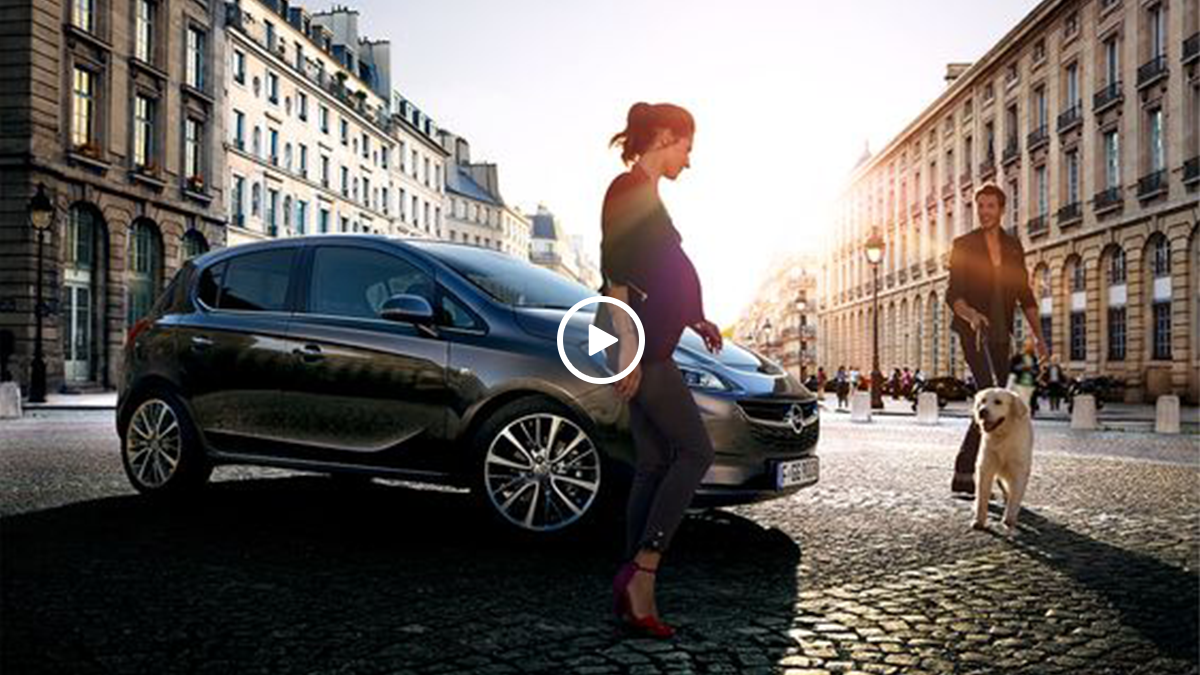
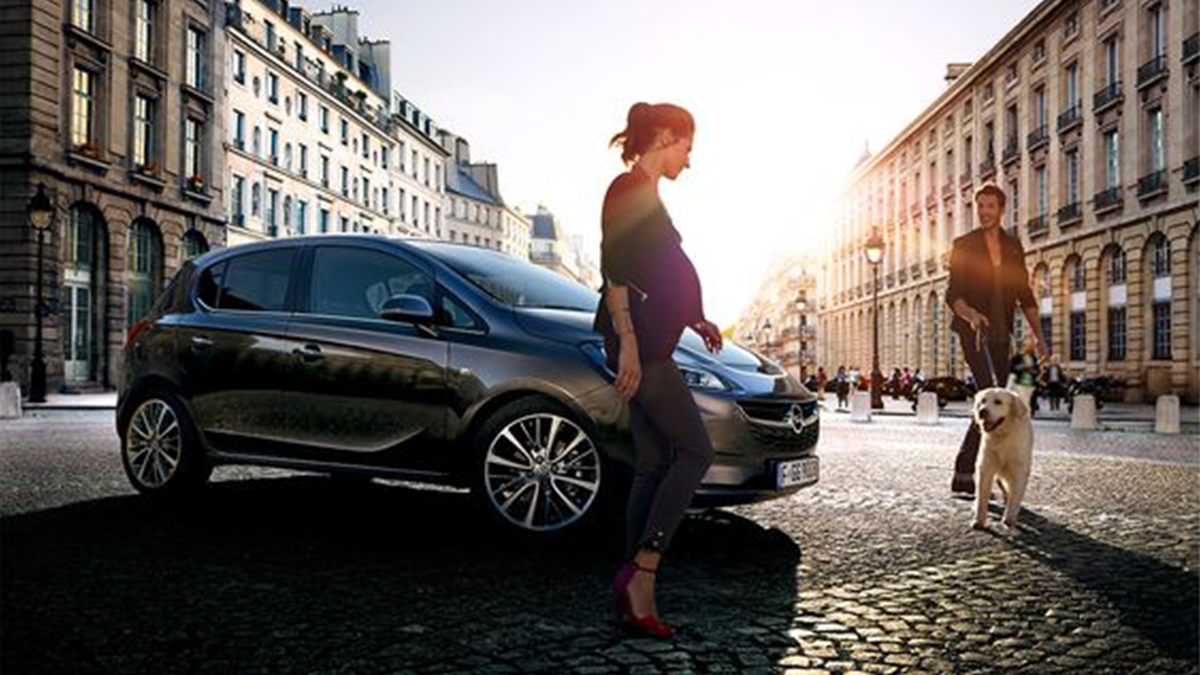
footer

Changed region(s): [[0.4625, 0.4356, 0.555, 0.5911]]

diff --git a/src/e-190625-venucia/desktop/assets/styles/index.scss b/src/e-190625-venucia/desktop/assets/styles/index.scss
@@ -88,11 +88,26 @@
   z-index: 1;
 
   .et-video {
+    position: relative;
     width: 100%;
     height: 100vh;
     background-image: url(../images/video.png);
     background-size: cover;
     background-repeat: no-repeat;
+
+    .et-icon.et-icon-play {
+      position: absolute;
+      top: 50%;
+      left: 50%;
+      margin-top: -44px;
+      margin-left: -44px;
+      cursor: pointer;
+      @include image(88px, 88px, '../images/icon-play.png');
+
+      &:hover {
+        transform: scale(1.1);
+      }
+    }
   }
 
   .et-main {
@@ -996,8 +1011,129 @@
   }
 
   .et-footer {
+    width: 1200px;
     margin: auto;
-    @include image(1200px, 417px, '../images/footer.png');
+
+    .et-footer__top {
+      display: flex;
+      padding: 50px 100px;
+      padding-right: 0;
+      color: $blockColor;
+      background-color: $navColor;
+
+      .et-footer__menu {
+        display: flex;
+        justify-content: space-around;
+        width: 580px;
+
+        .et-footer__menu-item {
+          .et-footer__label {
+            margin-bottom: 20px;
+            font-size: 16px;
+            font-weight: 500;
+          }
+
+          .et-footer__list {
+            .et-footer__list-item {
+              margin-bottom: 10px;
+              font-size: 16px;
+              font-weight: 300;
+              user-select: none;
+              cursor: pointer;
+            }
+          }
+        }
+      }
+
+      .et-footer__address {
+        margin-left: 250px;
+        
+        h4 {
+          margin-bottom: 20px;
+          font-size: 16px;
+          font-weight: 300;
+        }
+
+        p {
+          position: relative;
+          margin-bottom: 20px;
+          font-size: 24px;
+          font-weight: 500;
+
+          .et-icon {
+            position: absolute;
+            display: block;
+            left: -35px;
+            top: 1px;
+
+            &.et-icon-mobile {
+              @include image(16px, 24px, '../images/icon-mobile.png');
+            }
+
+            &.et-icon-phone {
+              @include image(22px, 22px, '../images/icon-phone.png');
+            }
+          }
+        }
+
+        .et-footer__share {
+          display: flex;
+          justify-content: space-around;
+          width: 160px;
+          margin-left: -15px;
+
+          div {
+            width: 42px;
+            height: 42px;
+            background-color: $shareColor;
+            border-radius: 100%;
+            cursor: pointer;
+
+            .et-icon {
+              display: block;
+              margin: auto;
+
+              &.et-icon-wechat {
+                margin-top: 9px;
+                @include image(27px, 22px, '../images/icon-wechat.png');
+              }
+  
+              &.et-icon-weibo {
+                margin-top: 9px;
+                @include image(27px, 22px, '../images/icon-weibo.png');
+              }
+
+              &.et-icon-tmall {
+                margin-top: 13px;
+                @include image(31px, 14px, '../images/icon-tmall.png');
+              }
+            }
+          }
+        }
+      }
+    }
+
+    .et-footer__bottom {
+      padding: 30px 0;
+      font-size: 14px;
+      font-weight: 300;
+      text-align: center;
+      color: $labelColor;
+      background-color: $blockColor;
+
+      b {
+        margin-right: 5px;
+        font-weight: 500;
+      }
+
+      i {
+        margin: 0 10px;
+      }
+
+      span {
+        cursor: pointer;
+      }
+    }
   }
 }
 
@@ -1018,6 +1154,10 @@
 
   .fade-in-right {
     animation: fade-in-right 1s ease-out forwards;
+  }
+
+  .slide-in-down {
+    animation: slide-in-down 1s ease-out forwards;
   }
 
   .delay {
@@ -1055,5 +1195,16 @@
   to {
     opacity: 1;
     transform: translateX(0);
+  }
+}
+
+@keyframes slide-in-down {
+  from {
+    transform: scaleY(0);
+    transform-origin: 0% 0%;
+  }
+  to {
+    transform: scaleY(1);
+    transform-origin: 0% 0%;
   }
 }

diff --git a/src/e-190625-venucia/desktop/index.entry.js b/src/e-190625-venucia/desktop/index.entry.js
@@ -6,7 +6,7 @@ import 'swiper/dist/css/swiper';
 import './assets/styles/index';
 
 const elementIds = [
-  'design', 'inner', '360', 'control', 'mutual',
+  'video', 'design', 'inner', '360', 'control', 'mutual',
   'safe', 'quota', 'bodywork', 'air', 'specs', 'news'
 ];
 const elements = elementIds.reduce((res, id) => {

diff --git a/src/e-190625-venucia/desktop/assets/styles/setting.scss b/src/e-190625-venucia/desktop/assets/styles/setting.scss
@@ -3,6 +3,7 @@ $themeColor: #2963b3;
 $themeHoverColor: #1d4b8a;
 $themeTextColor: #235497;
 $textColor: #101616;
+$shareColor: #222222;
 $labelColor: #282828;
 $navColor: #383838;
 $splitColor: #838383;
